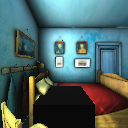
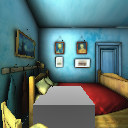
update default light to be brighter

Changed region(s): [[0.25, 0.6562, 0.75, 1.0]]

diff --git a/src/esp/gfx/LightSetup.cpp b/src/esp/gfx/LightSetup.cpp
@@ -78,8 +78,13 @@ LightSetup getLightsAtBoxCorners(const Magnum::Range3D& box,
 }
 
 LightSetup getDefaultLights() {
-  return LightSetup{{{1.0, 1.0, 0.0, 0.0}, {0.75, 0.75, 0.75}},
-                    {{-0.5, 0.0, 1.0, 0.0}, {0.4, 0.4, 0.4}}};
+  return LightSetup{
+      {{0.0, 0.5, 1.0, 0.0}, {2.4, 2.4, 2.4}},     // forward
+      {{0.0, 0.5, -1.0, 0.0}, {2.4, 2.4, 2.4}},    // backward
+      {{-1.0, 1.0, 0.0, 0.0}, {2.0, 2.0, 2.0}},    // top left
+      {{1.0, 1.0, 1.0, 0.0}, {2.0, 2.0, 2.0}},     // top right
+      {{0.0, -1.0, 0.0, 0.0}, {0.64, 0.64, 0.64}}  // bottom
+  };
 }
 
 Magnum::Color3 getAmbientLightColor(const LightSetup& lightSetup) {
